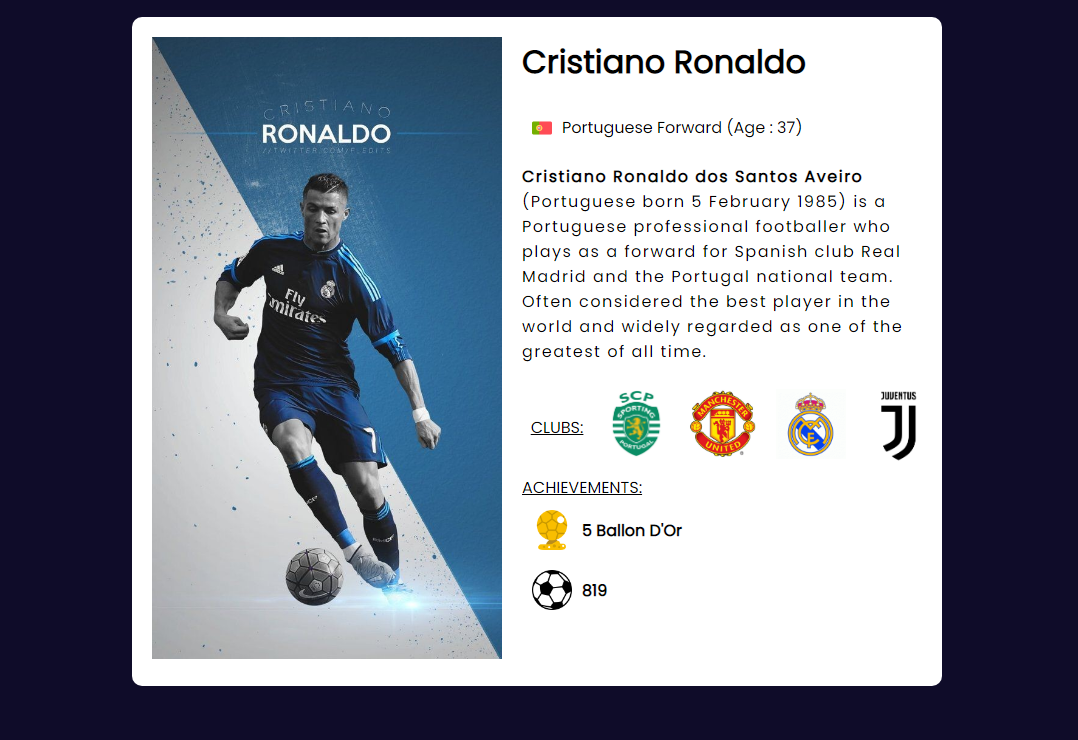
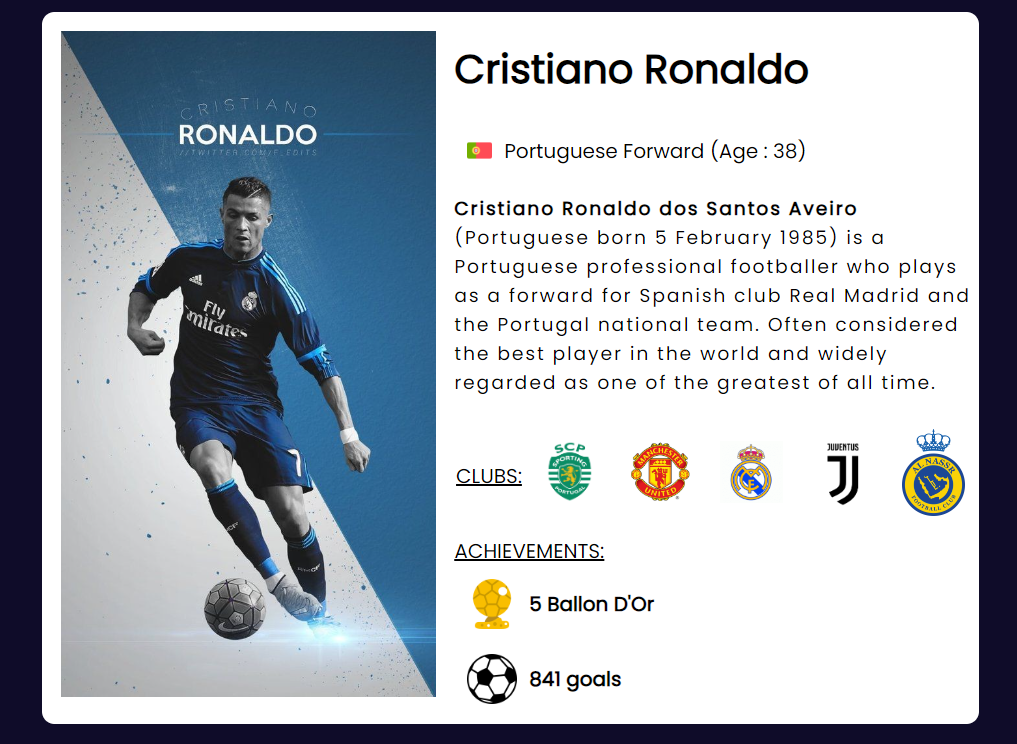
atualizações clubes , gols e idade

diff --git a/index.html b/index.html
@@ -26,7 +26,7 @@
                 
                 <img src="images/portugal1.png" alt="bandeira">
     
-                Portuguese Forward (Age : 37)
+                Portuguese Forward (Age : 38)
     
             </div>
 
@@ -59,6 +59,10 @@
                 <div>
                     <img src="images/juventus.png" alt="juventus">
                 </div>
+
+                <div>
+                    <img src="images/allnassr.png" alt="allnassr">
+                </div>
                 
             </div>
 
@@ -80,21 +84,16 @@
 
                     <img src="images/soccer.png" alt="soccer"> 
                 
-                    <strong>819</strong>
+                    <strong>841 goals</strong>
 
                 </div>
-
-             
 
 
             </div>
 
 
-
-
         </div>
       
-        
     </div>
     
 </body>

diff --git a/style.css b/style.css
@@ -11,12 +11,12 @@ body{
     display: flex;
     background-color: white;
     border-radius: 10px;
-    width: 810px;
+    width: 750px;
 }
 
 .img-player img{
-    width: 350px;
-    margin: 20px;
+    width: 300px;
+    margin: 15px;
 }
 
 
@@ -32,6 +32,7 @@ body{
 
 #bio{
     letter-spacing:1.5px;
+    font-size: 15px;
 }
 
 #clubs{
@@ -41,7 +42,8 @@ body{
 }
 
 #clubs img{
-    width: 70px;
+    width: 50px;
+    margin: 10px;
 }
 
 #awards{

diff --git a/readme.md b/readme.md
@@ -3,4 +3,4 @@
 Atividade realizada com alunos de TI para desenvolver uma biografia sobre um personagem, ator, cantor ou jogador que eles gostam. Foi utilizado o exemplo de Cristiano Ronaldo como base para os alunos utilizarem de exemplo. 
 
 
-   <img src="images/print.PNG" alt="cr7">
+   <img src="images/print.png" alt="cr7">
